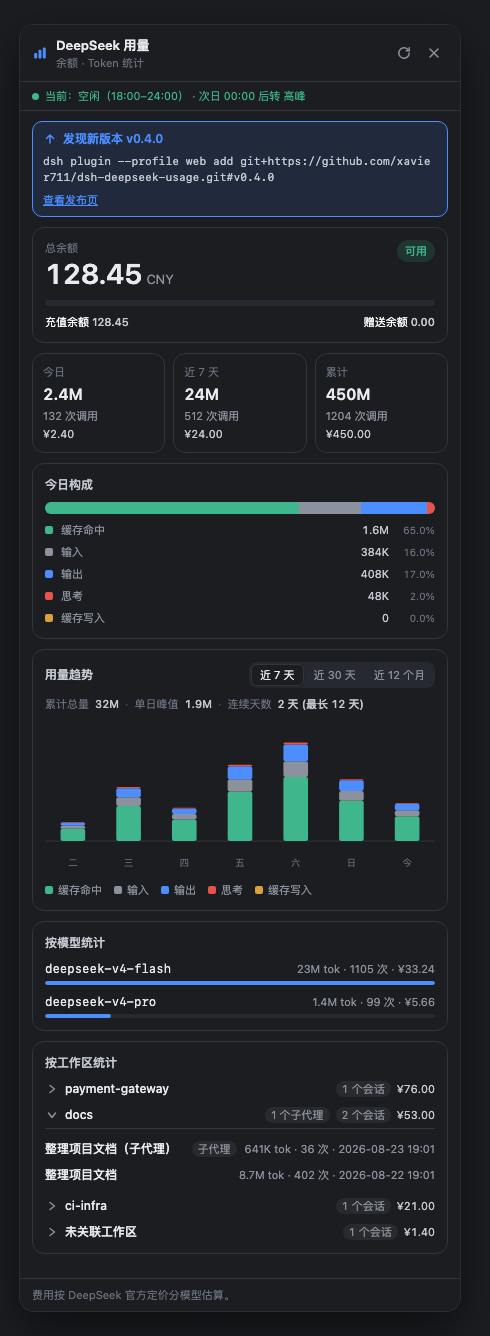
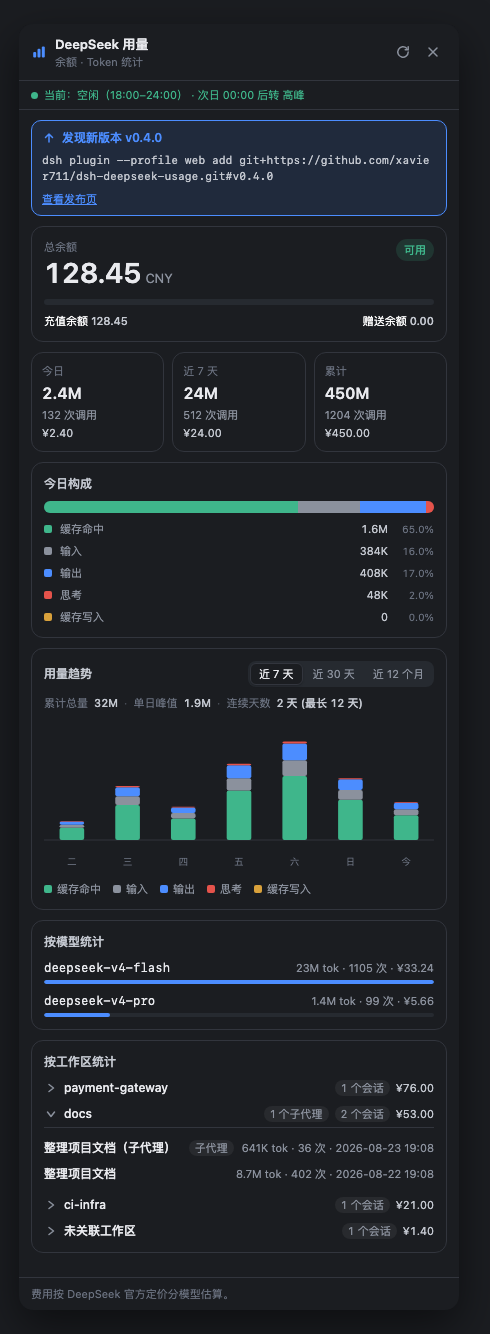
style: 面板去掉外边框，与产品浮层一致
- 产品浮层（hovercard/toast）均为纯阴影无边框；面板移除
  1px border-l1 边框，保留 lv3 阴影 + 14px 圆角，边缘更干净
- 截图重新生成

diff --git a/screenshots/render-test.html b/screenshots/render-test.html
@@ -188,7 +188,7 @@ window.__ZH = {
   const SAMPLE = {
  "/dsh-usage/balance": {
   "ok": true,
-  "fetchedAt": 1787569512352,
+  "fetchedAt": 1787569688273,
   "isAvailable": true,
   "currency": "CNY",
   "totalBalance": "128.45",
@@ -197,13 +197,13 @@ window.__ZH = {
  },
  "/dsh-usage/local": {
   "ok": true,
-  "fetchedAt": 1787569512352,
+  "fetchedAt": 1787569688273,
   "sessionCount": 3,
   "errorSessions": 0,
   "pricing": {
    "currency": "CNY",
    "note": "official",
-   "newPricingAt": 1787569512352,
+   "newPricingAt": 1787569688273,
    "weekendOffPeakAt": 1787414400000,
    "peakHours": [
     [
@@ -4002,8 +4002,8 @@ window.__ZH = {
     "title": "优化支付网关性能",
     "workspace": "/Users/alice/dev/payment-gateway",
     "subagent": false,
-    "createdAt": 1787483112352,
-    "lastActiveAt": 1787565912352,
+    "createdAt": 1787483288273,
+    "lastActiveAt": 1787566088273,
     "calls": 618,
     "inputTokens": 1900000,
     "outputTokens": 2100000,
@@ -4018,8 +4018,8 @@ window.__ZH = {
     "title": "整理项目文档",
     "workspace": "/Users/alice/docs",
     "subagent": false,
-    "createdAt": 1787396712352,
-    "lastActiveAt": 1787396712352,
+    "createdAt": 1787396888273,
+    "lastActiveAt": 1787396888273,
     "calls": 402,
     "inputTokens": 1300000,
     "outputTokens": 1500000,
@@ -4034,8 +4034,8 @@ window.__ZH = {
     "title": "修复 CI 流水线",
     "workspace": "/Users/alice/ci-infra",
     "subagent": false,
-    "createdAt": 1787310312352,
-    "lastActiveAt": 1787310312352,
+    "createdAt": 1787310488273,
+    "lastActiveAt": 1787310488273,
     "calls": 184,
     "inputTokens": 500000,
     "outputTokens": 600000,
@@ -4050,8 +4050,8 @@ window.__ZH = {
     "title": "整理项目文档（子代理）",
     "workspace": "/Users/alice/docs",
     "subagent": true,
-    "createdAt": 1787396712352,
-    "lastActiveAt": 1787483112352,
+    "createdAt": 1787396888273,
+    "lastActiveAt": 1787483288273,
     "calls": 36,
     "inputTokens": 90000,
     "outputTokens": 110000,
@@ -4066,8 +4066,8 @@ window.__ZH = {
     "title": "临时想法速记",
     "workspace": null,
     "subagent": false,
-    "createdAt": 1787223912352,
-    "lastActiveAt": 1787223912352,
+    "createdAt": 1787224088273,
+    "lastActiveAt": 1787224088273,
     "calls": 27,
     "inputTokens": 60000,
     "outputTokens": 80000,
@@ -4121,8 +4121,8 @@ window.__ZH = {
       "id": "s1",
       "title": "优化支付网关性能",
       "subagent": false,
-      "createdAt": 1787483112352,
-      "lastActiveAt": 1787565912352,
+      "createdAt": 1787483288273,
+      "lastActiveAt": 1787566088273,
       "calls": 618,
       "inputTokens": 1900000,
       "outputTokens": 2100000,
@@ -4175,8 +4175,8 @@ window.__ZH = {
       "id": "s2",
       "title": "整理项目文档",
       "subagent": false,
-      "createdAt": 1787396712352,
-      "lastActiveAt": 1787396712352,
+      "createdAt": 1787396888273,
+      "lastActiveAt": 1787396888273,
       "calls": 402,
       "inputTokens": 1300000,
       "outputTokens": 1500000,
@@ -4189,8 +4189,8 @@ window.__ZH = {
       "id": "s4",
       "title": "整理项目文档（子代理）",
       "subagent": true,
-      "createdAt": 1787396712352,
-      "lastActiveAt": 1787483112352,
+      "createdAt": 1787396888273,
+      "lastActiveAt": 1787483288273,
       "calls": 36,
       "inputTokens": 90000,
       "outputTokens": 110000,
@@ -4243,8 +4243,8 @@ window.__ZH = {
       "id": "s3",
       "title": "修复 CI 流水线",
       "subagent": false,
-      "createdAt": 1787310312352,
-      "lastActiveAt": 1787310312352,
+      "createdAt": 1787310488273,
+      "lastActiveAt": 1787310488273,
       "calls": 184,
       "inputTokens": 500000,
       "outputTokens": 600000,
@@ -4297,8 +4297,8 @@ window.__ZH = {
       "id": "s5",
       "title": "临时想法速记",
       "subagent": false,
-      "createdAt": 1787223912352,
-      "lastActiveAt": 1787223912352,
+      "createdAt": 1787224088273,
+      "lastActiveAt": 1787224088273,
       "calls": 27,
       "inputTokens": 60000,
       "outputTokens": 80000,
@@ -4313,7 +4313,7 @@ window.__ZH = {
  },
  "/dsh-usage/version": {
   "ok": true,
-  "checkedAt": 1787569512352,
+  "checkedAt": 1787569688273,
   "installed": "0.1.0",
   "latest": "0.4.0",
   "updateAvailable": true,
@@ -4321,7 +4321,7 @@ window.__ZH = {
  },
  "/dsh-usage/period": {
   "ok": true,
-  "now": 1787569512352,
+  "now": 1787569688273,
   "period": "offPeak",
   "range": [
    1080,

diff --git a/lib/client.js b/lib/client.js
@@ -51,7 +51,7 @@ window.__ModuleLoader__.load({
 .du-periodStrip[data-period="offPeak"] .du-periodStripDot{background:var(--dsw-alias-state-success-primary)}
 .du-periodStrip[data-period="flat"] .du-periodStripDot{background:var(--dsw-alias-label-tertiary)}
 .du-layer.du-rail .du-badge{border-radius:50%;justify-content:center;gap:0;width:36px;height:36px;margin:8px 0 10px;padding:0}
-.du-panel{z-index:30;border:1px solid var(--dsw-alias-border-l1);background:var(--dsw-alias-bg-base);width:440px;max-width:calc(100vw - 24px);max-height:75vh;box-shadow:var(--dsw-shadow-lv3);--du-input:var(--dsw-alias-label-tertiary);--du-output:var(--dsw-alias-state-business-primary);--du-cacheRead:var(--dsw-alias-state-success-primary);--du-cacheWrite:var(--dsw-alias-state-warn-primary);--du-reasoning:var(--dsw-alias-state-error-primary);border-radius:14px;flex-direction:column;display:flex;position:fixed;bottom:128px;left:12px;overflow:hidden}
+.du-panel{z-index:30;background:var(--dsw-alias-bg-base);width:440px;max-width:calc(100vw - 24px);max-height:75vh;box-shadow:var(--dsw-shadow-lv3);--du-input:var(--dsw-alias-label-tertiary);--du-output:var(--dsw-alias-state-business-primary);--du-cacheRead:var(--dsw-alias-state-success-primary);--du-cacheWrite:var(--dsw-alias-state-warn-primary);--du-reasoning:var(--dsw-alias-state-error-primary);border-radius:14px;flex-direction:column;display:flex;position:fixed;bottom:128px;left:12px;overflow:hidden}
 .du-header{box-sizing:border-box;border-bottom:1px solid var(--dsw-alias-border-l2);background:var(--dsw-alias-bg-base);flex:none;justify-content:space-between;align-items:center;min-height:46px;padding:10px 12px;display:flex}
 .du-headerTitle{flex:none;align-items:center;gap:8px;display:flex}
 .du-titleCol{flex:none;flex-direction:column;display:flex}
